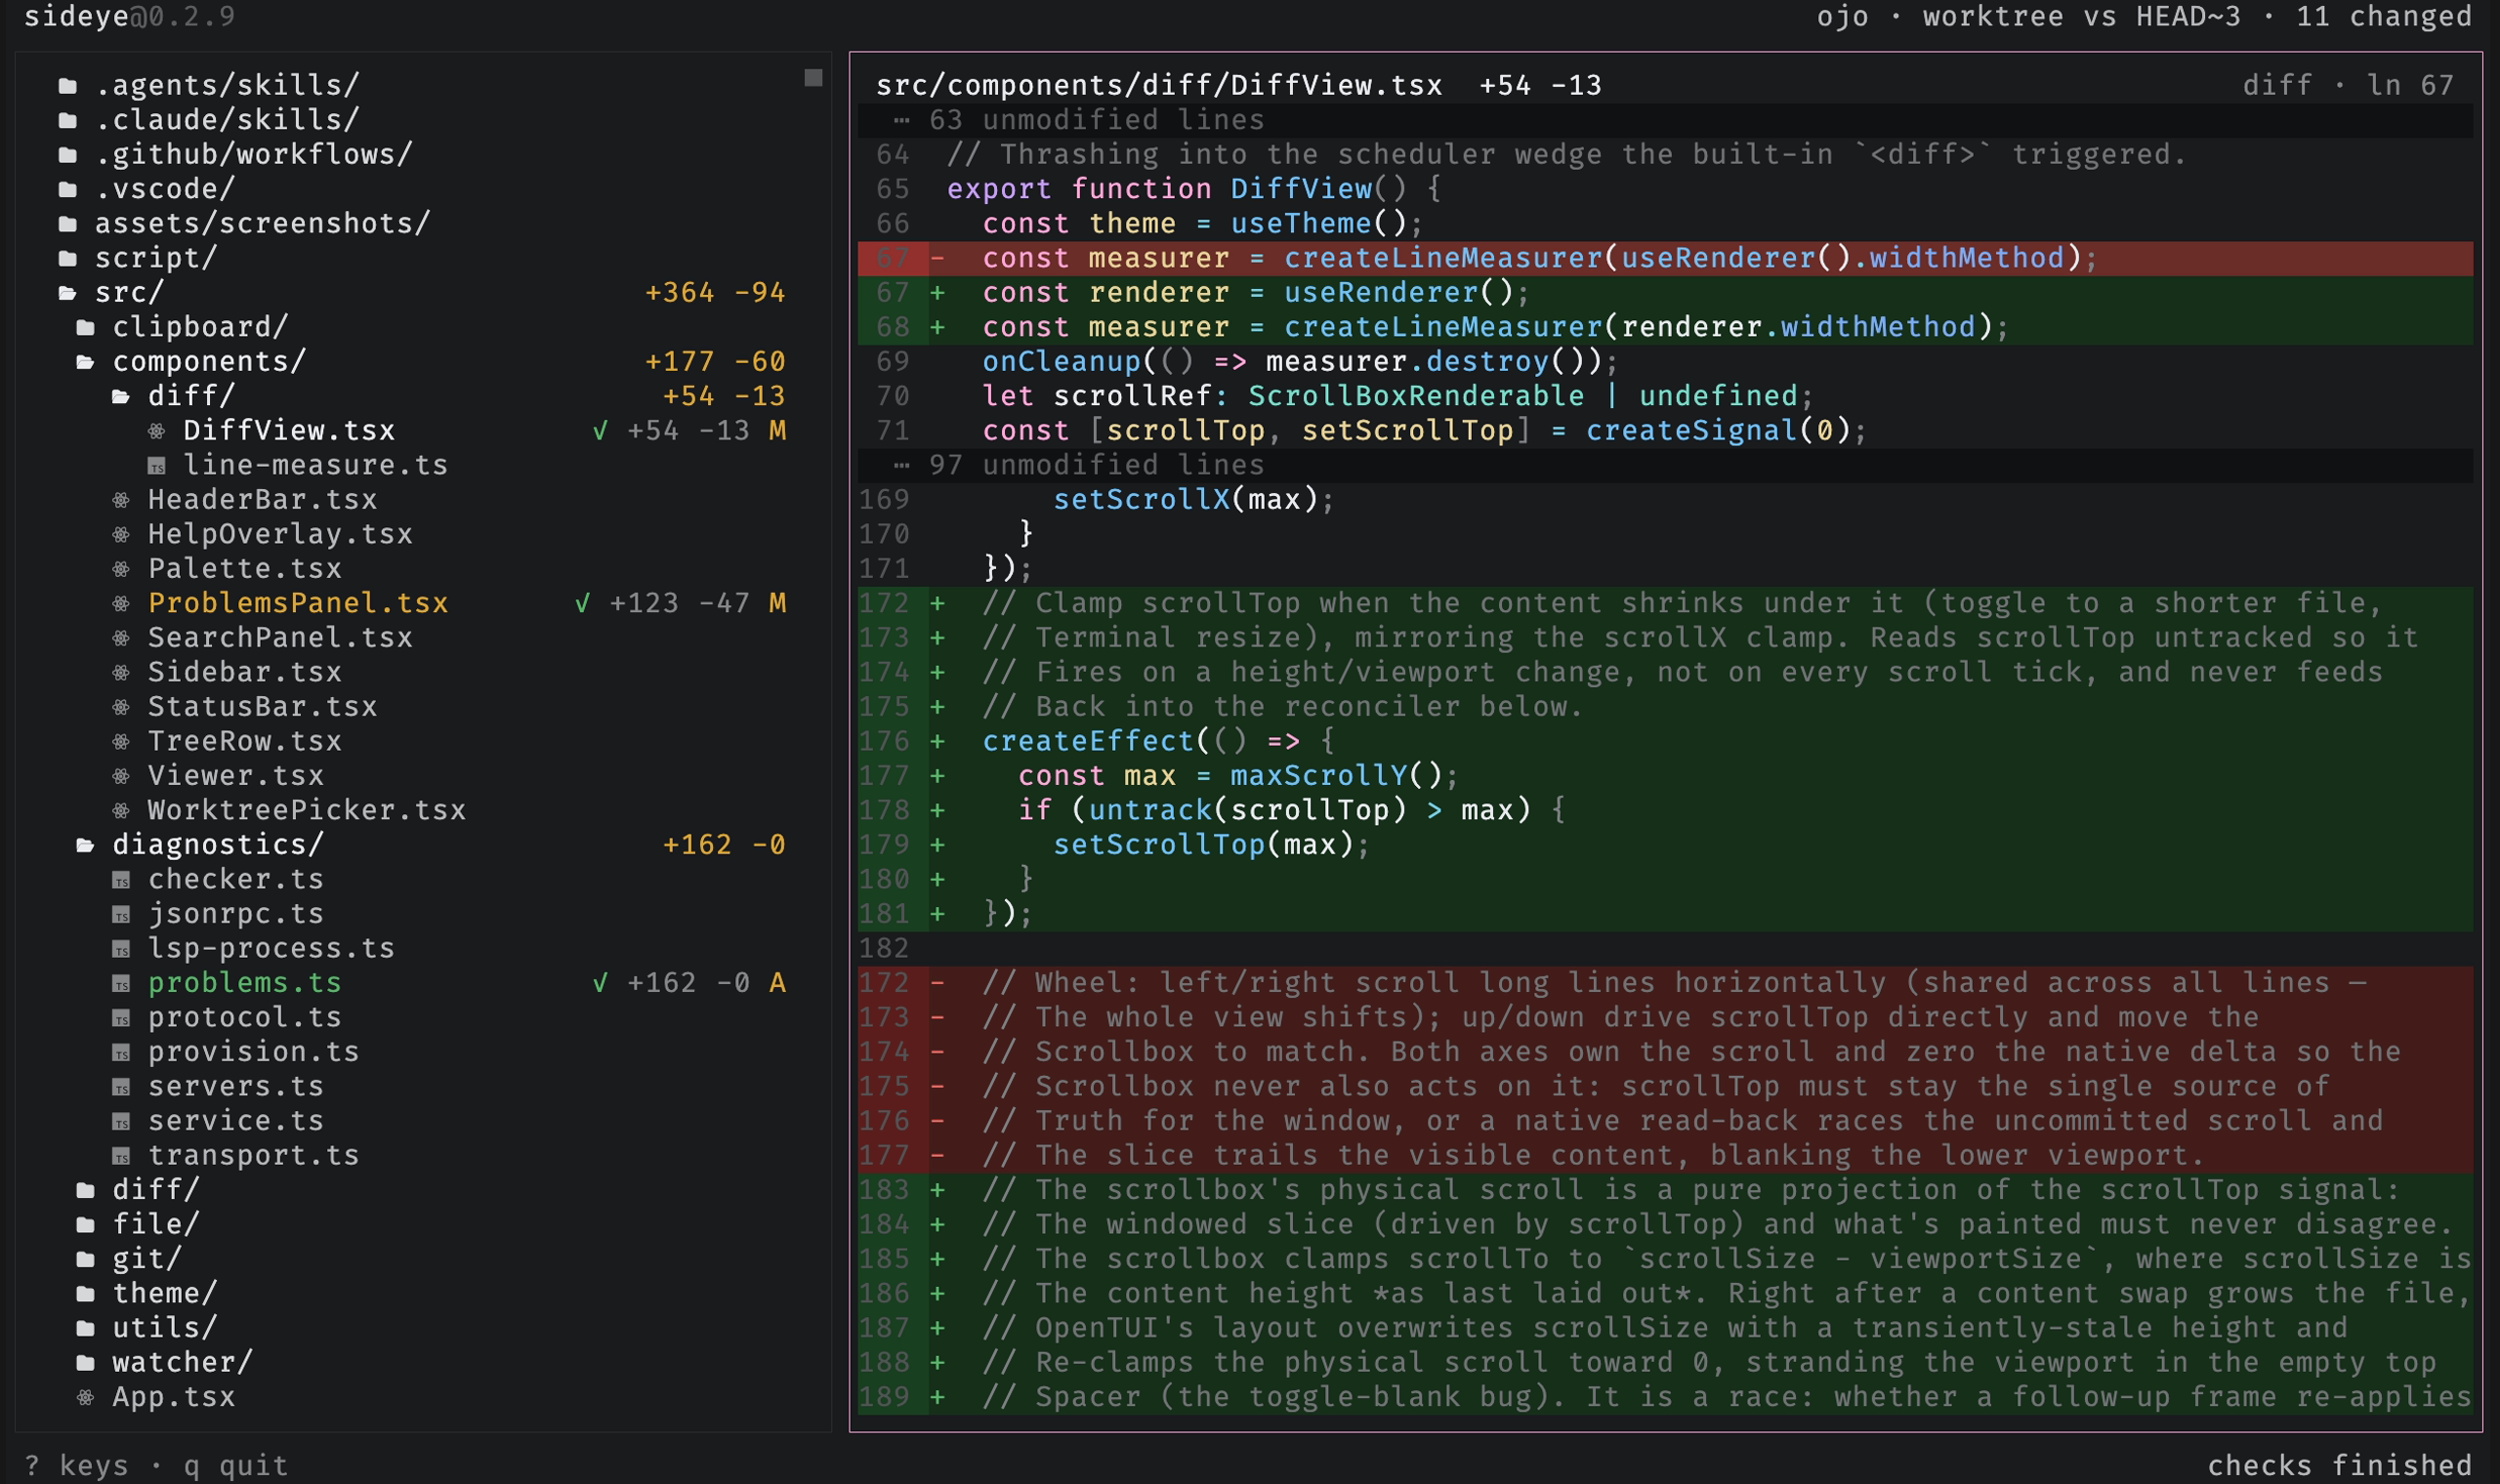
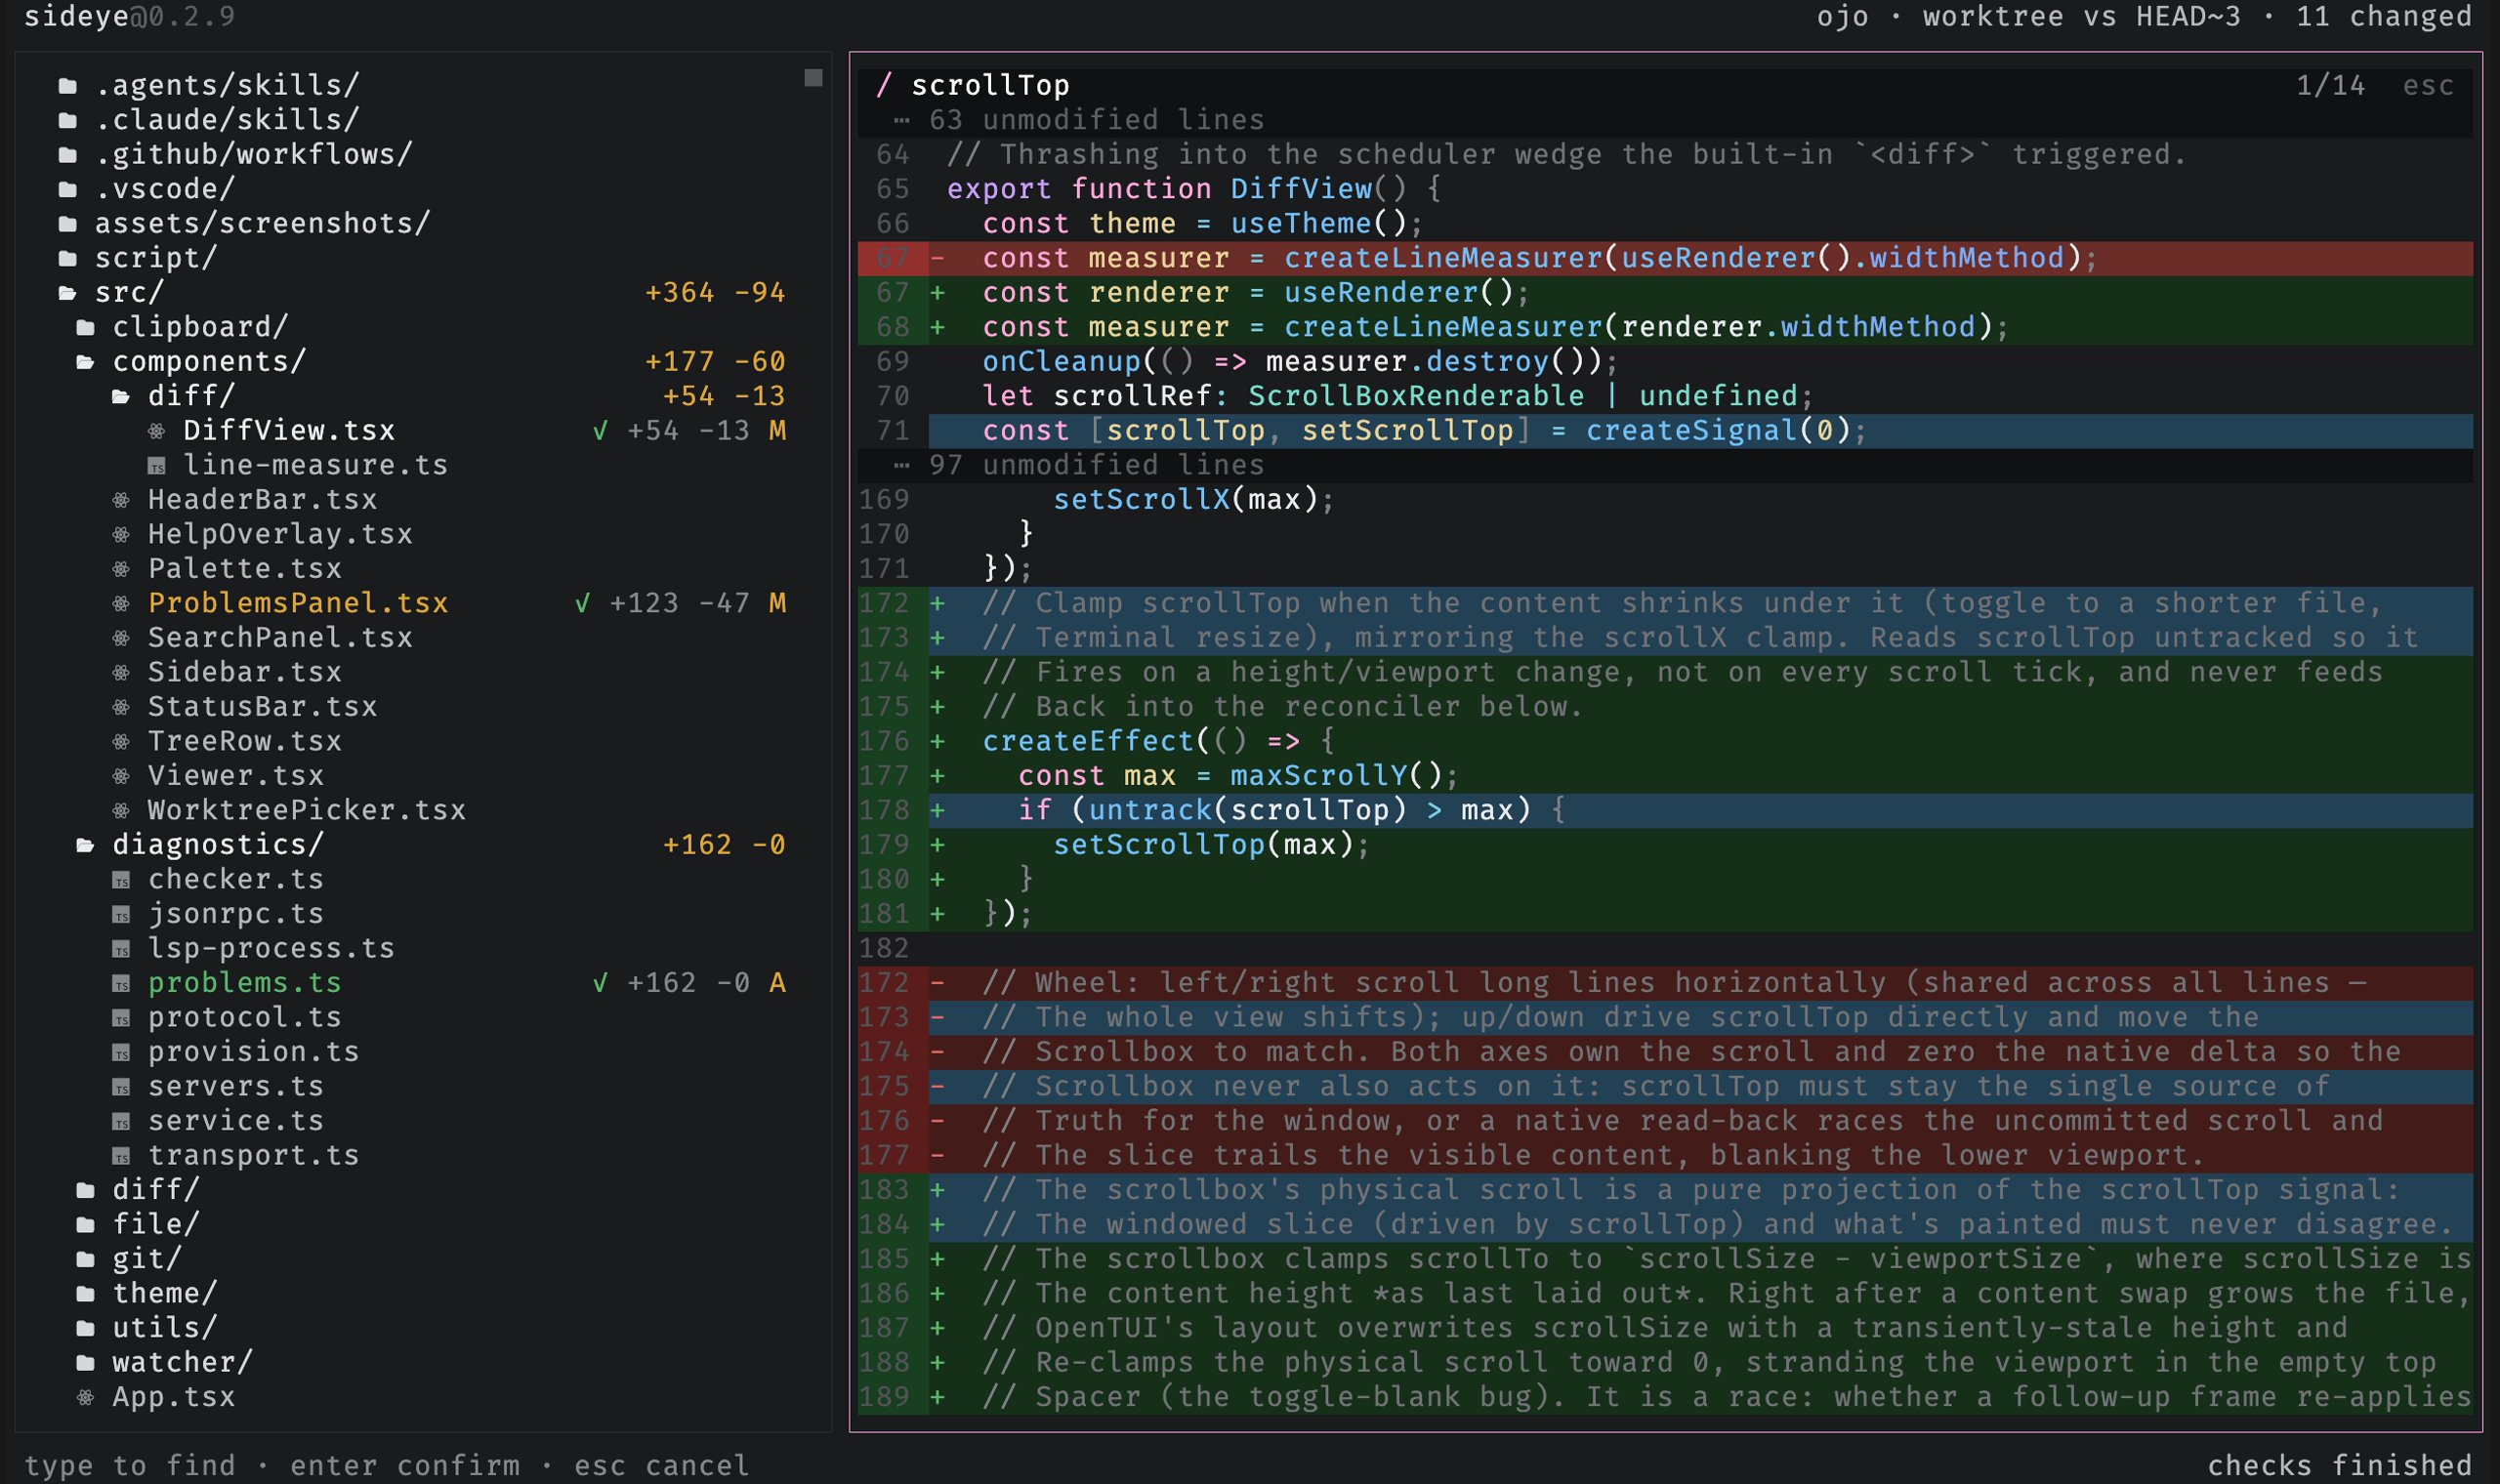
docs(readme): 📝 fix find screenshot and drop the inline-diagnostics shot
The find screenshot showed a plain diff with no find UI (the generator
committed the find with Enter, which collapsed back to the diff when the
search term had no matches in the visible hunks). Capture the open find
bar with a term present in the diff (scrollTop) so the N/M counter and
highlights show. Drop viewer-diagnostics.png since problems.png already
conveys the diagnostics intention. The generator now supports
SIDEYE_SCREENSHOT_REPO to capture a clean external checkout while saving
images into this repo.

diff --git a/script/screenshots.ts b/script/screenshots.ts
@@ -5,19 +5,24 @@
  * screenshots it. The problems/diagnostics shots need a changed file with diagnostics, so a temp
  * errorful file is created in src/ around those runs only.
  *
- * Run on a clean checkout (`bun run screenshots`) so the tree and diff are representative;
- * uncommitted files would show up in the captured tree. Requires `vhs` on PATH (brew install vhs)
- * and a Nerd Font installed for the file-type icons. Pass screen names to shoot a subset, e.g. `bun
- * run screenshots find problems`.
+ * Capture against a clean checkout so the tree and diff are representative — uncommitted files show
+ * up in the captured tree. By default that's this repo; set `SIDEYE_SCREENSHOT_REPO` to point
+ * sideye at another checkout (e.g. a clean main worktree) while the images still land in THIS
+ * repo's assets. Requires `vhs` on PATH (brew install vhs) and a Nerd Font installed for the
+ * file-type icons. Pass screen names to shoot a subset, e.g. `bun run screenshots find problems`.
  */
 import { rmSync } from "node:fs";
 import { tmpdir } from "node:os";
 import { resolve } from "node:path";
 
-const REPO = resolve(import.meta.dir, "..");
+/** Where the images are written (always this repo, so a PR here picks them up). */
+const ASSETS = resolve(import.meta.dir, "../assets/screenshots");
+/** Which checkout sideye runs against; override to capture a clean tree elsewhere. */
+const REPO = process.env.SIDEYE_SCREENSHOT_REPO
+  ? resolve(process.env.SIDEYE_SCREENSHOT_REPO)
+  : resolve(import.meta.dir, "..");
 const BUN = process.execPath;
 const VHS = "vhs";
-const OUT = "assets/screenshots";
 const TAPES = resolve(tmpdir(), "sideye-screenshots");
 /** A few commits back so the diff and tree show several changed source files, not just a dep bump. */
 const BASE_REF = "HEAD~3";
@@ -38,9 +43,10 @@ const header = [
   "Set TypingSpeed 0",
 ].join("\n");
 
+// VHS runs with cwd = the tmp tape dir, so cd into the capture target before launching sideye.
 const launch = [
   "Hide",
-  `Type "${BUN} run src/main.tsx ${BASE_REF}"`,
+  `Type "cd ${REPO} && ${BUN} run src/main.tsx ${BASE_REF}"`,
   "Enter",
   "Sleep 3s",
   "Show",
@@ -64,11 +70,24 @@ const screens = [
   { name: "worktree-picker", steps: ['Type "w"', "Sleep 800ms"].join("\n") },
   { name: "go-to-file", steps: ["Ctrl+P", 'Type "diff"', "Sleep 600ms"].join("\n") },
   {
-    // Enter commits the find so the title shows the N/M match counter with highlights live.
+    /**
+     * Open the diff and let it focus/settle, then open the find bar and type a term present in the
+     * visible hunks ("scrollTop"). Capture the open bar showing the live N/M counter and highlights
+     * (the render test's verified checkpoint). No commit: a too-early `/` or a no-match Enter both
+     * collapse back to a plain diff with no find UI, so generous settles and a real match matter.
+     */
     name: "find",
-    steps: [openDiffView, 'Type "/"', 'Type "import"', "Sleep 300ms", "Enter", "Sleep 600ms"].join(
-      "\n",
-    ),
+    steps: [
+      "Ctrl+P",
+      'Type "DiffView"',
+      "Sleep 500ms",
+      "Enter",
+      "Sleep 1500ms",
+      'Type "/"',
+      "Sleep 600ms",
+      'Type "scrollTop"',
+      "Sleep 1s",
+    ].join("\n"),
   },
   { name: "search", steps: ["Ctrl+F", 'Type "Effect"', "Sleep 1200ms"].join("\n") },
   {
@@ -91,23 +110,6 @@ const screens = [
       "Sleep 16s",
     ].join("\n"),
   },
-  {
-    // Panel closed so the inline cue is the focus; cursor lands on the type-error line.
-    fixture: true,
-    name: "viewer-diagnostics",
-    steps: [
-      "Ctrl+P",
-      'Type "diagnostics-demo"',
-      "Sleep 400ms",
-      "Enter",
-      "Sleep 800ms",
-      "Down",
-      "Down",
-      "Down",
-      "Down",
-      "Sleep 16s",
-    ].join("\n"),
-  },
 ];
 
 function tapeFor(screen: (typeof screens)[number]) {
@@ -116,14 +118,15 @@ function tapeFor(screen: (typeof screens)[number]) {
     header,
     launch,
     screen.steps,
-    `Screenshot ${OUT}/${screen.name}.png`,
+    // Written next to the tape in the tmp dir (VHS's cwd), then moved into ASSETS.
+    `Screenshot ${screen.name}.png`,
     "",
   ].join("\n\n");
 }
 
 async function run(cmd: string, cmdArgs: string[]) {
   const proc = Bun.spawn([cmd, ...cmdArgs], {
-    cwd: REPO,
+    cwd: TAPES,
     stdio: ["inherit", "inherit", "inherit"],
   });
   const code = await proc.exited;
@@ -136,6 +139,7 @@ async function shoot(screen: (typeof screens)[number]) {
   await Bun.write(`${TAPES}/${screen.name}.tape`, tapeFor(screen));
   console.log(`▶ ${screen.name}`);
   await run(VHS, [`${TAPES}/${screen.name}.tape`]);
+  await Bun.write(`${ASSETS}/${screen.name}.png`, Bun.file(`${TAPES}/${screen.name}.png`));
 }
 
 /** Sync so it can run from a signal handler before exit, not just the finally path. */

diff --git a/README.md b/README.md
@@ -122,12 +122,6 @@ repo's own, then your `PATH`), so diagnostics work out of the box. Pass
 
 ![problems panel docked below a diff, listing diagnostics with their file locations](assets/screenshots/problems.png)
 
-Diagnostics also surface inline in the viewer: gutter line numbers pick up each
-finding's severity color, and the status bar shows the message for the line at
-the cursor.
-
-![viewer showing a source file with severity-colored gutter line numbers and a diagnostic message in the status bar](assets/screenshots/viewer-diagnostics.png)
-
 ## Keys
 
 | Key         | Action                                            |